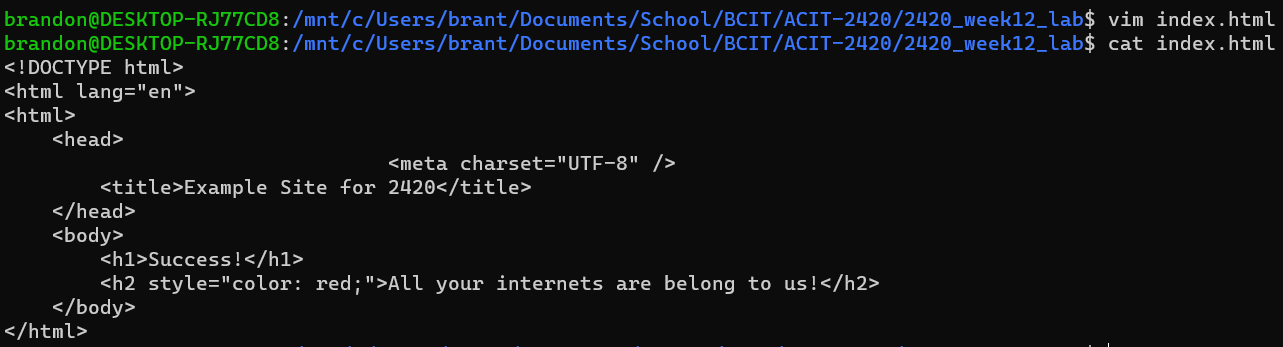
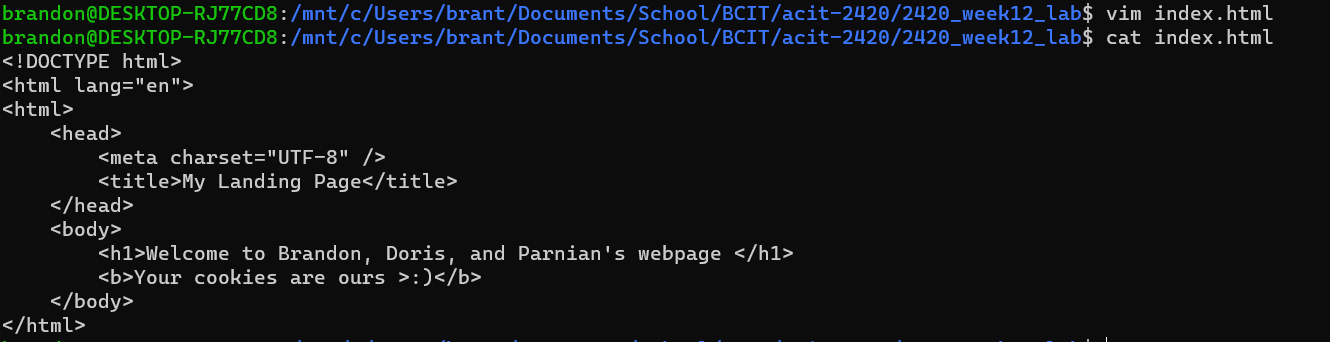
change to index.html

diff --git a/index.html b/index.html
@@ -2,11 +2,11 @@
 <html lang="en">
 <html>
     <head>
-				<meta charset="UTF-8" />
-        <title>Example Site for 2420</title>
+	<meta charset="UTF-8" />
+        <title>My Landing Page</title>
     </head>
     <body>
-        <h1>Success!</h1>
-        <h2 style="color: red;">All your internets are belong to us!</h2>
+        <h1>Welcome to Brandon, Doris, and Parnian's webpage </h1>
+	<b>Your cookies are ours >:)</b>
     </body>
 </html>

diff --git a/README.md b/README.md
@@ -38,12 +38,12 @@ sudo apt install nginx
 <html lang="en">
 <html>
     <head>
-		<meta charset="UTF-8" />
-        <title>Example Site for 2420</title>
+        <meta charset="UTF-8" />
+        <title>My Landing Page</title>
     </head>
     <body>
-        <h1>Success!</h1>
-        <h2 style="color: red;">All your internets are belong to us!</h2>
+        <h1>Welcome to Brandon, Doris, and Parnian's webpage </h1>
+        <b>Your cookies are ours >:)</b>
     </body>
 </html>
 ```
